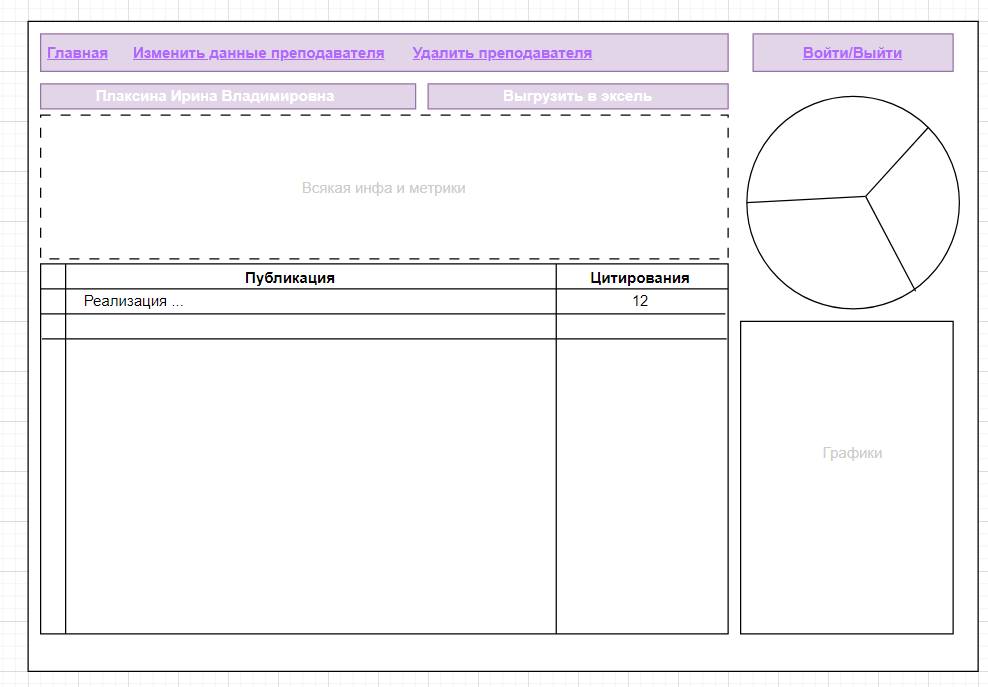
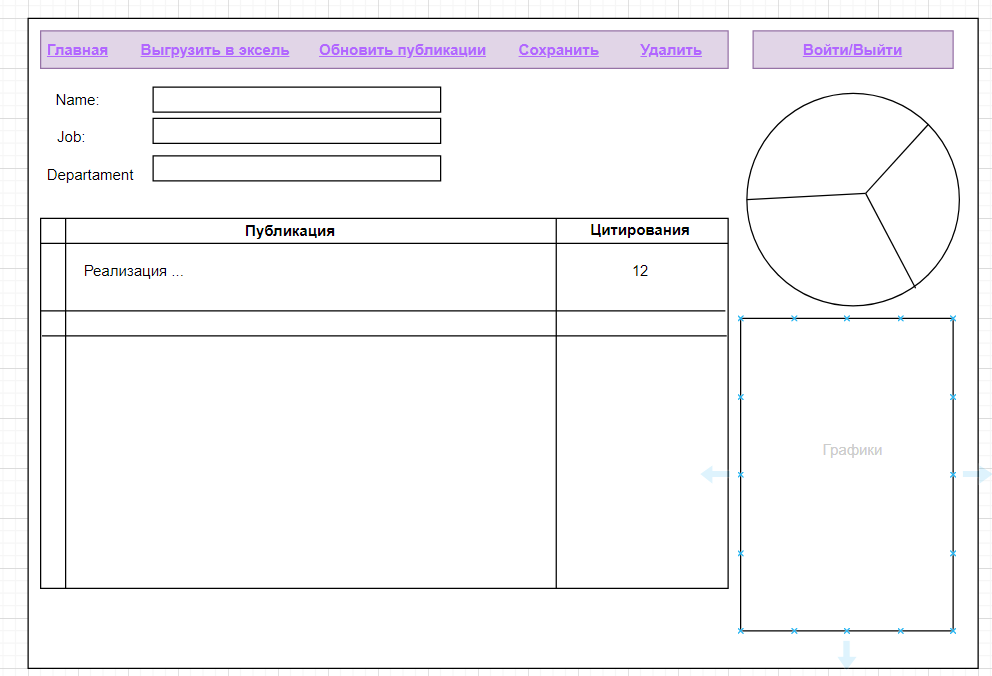
v0.1

diff --git a/PublicationReports/PublicationReports/templates/PublicationReports/root.html b/PublicationReports/PublicationReports/templates/PublicationReports/root.html
@@ -2,10 +2,12 @@
 
 <!DOCTYPE html>
 <html lang="en">
-<head>
-    <meta charset="UTF-8">
-    <title>PublicationReports</title>
-    <script src="{% static 'publrep/jquery-3.7.1.min.js' %}"></script>
+     <head>
+     <meta charset="UTF-8">
+     <meta name="viewport" content="width=device-width, initial-scale=1.0">
+     <title>PublicationReports</title>
+     <link rel="stylesheet" href="https://stackpath.bootstrapcdn.com/bootstrap/4.5.2/css/bootstrap.min.css">
+     <link rel="stylesheet" href="{% static 'css/styles.css' %}">
 </head>
 <body>
 {% block body_content %}

diff --git a/PublicationReports/PublicationReports/templates/PublicationReports/index.html b/PublicationReports/PublicationReports/templates/PublicationReports/index.html
@@ -38,7 +38,7 @@
   </tr>
   <tr>
     {% for author in authors %}
-    <td>{{ author.name }}</td>
+      <td><a href="{% url 'view_author' author.id %}">{{ author.name }}</a> </td>
     <td>{{ author.departament }}</td>
     <td>посчитать количество пбуликаций по автору</td>
     <tr>{% endfor %}<br>

diff --git a/PublicationReports/PublicationReports/templates/PublicationReports/author.html b/PublicationReports/PublicationReports/templates/PublicationReports/author.html
@@ -1,0 +1,9 @@
+{% extends 'PublicationReports/root.html' %}
+
+{% block body_content %}
+<form method="post" enctype="multipart/form-data">
+    {% csrf_token %}
+    {{ form.as_p }}
+    <input type="submit" value="Добавить">
+</form>
+{% endblock body_content %}

diff --git a/PublicationReports/PublicationReports/static/css/styles.css b/PublicationReports/PublicationReports/static/css/styles.css
@@ -1,0 +1,15 @@
+ body {
+     font-family: Arial, sans-serif;
+     margin: 0;
+     padding: 0;
+ }
+
+ header, footer {
+     background-color: #f8f9fa;
+     text-align: center;
+     padding: 1em;
+ }
+
+ main {
+     padding: 1em;
+ }

diff --git a/PublicationReports/PublicationReports/views.py b/PublicationReports/PublicationReports/views.py
@@ -1,8 +1,11 @@
+from django.views.decorators.http import require_http_methods
+
 from .models import Author as AuthorModel
 from .forms import AuthorForm
 from django.template.response import TemplateResponse
 from django.urls import reverse
-from django.http import HttpResponseRedirect
+from django.http import HttpResponseRedirect, HttpResponseNotFound
+
 
 def index(request):
     return TemplateResponse(request,
@@ -30,3 +33,29 @@ def create_teacher(request):
             return TemplateResponse(request,
                                     template_name,
                                     context={'form': author_form})
+
+def view_author(request, id):
+    template_name = "PublicationReports/author.html"
+    try:
+        publrep = AuthorModel.objects.get(pk=id)
+    except AuthorModel.DoesNotExist:
+        return HttpResponseNotFound('Не найдено')
+    if request.method == 'GET':
+        publrep_form = AuthorForm(instance=publrep)
+        return TemplateResponse(request,
+                                template_name,
+                                context={'form': publrep_form})
+    elif request.method == 'POST':
+        publrep_form = AuthorForm(request.POST, request.FILES, instance=publrep)
+        if publrep_form.is_valid():
+            publrep.name = request.POST['name']
+            publrep.description = publrep_form.cleaned_data['description']
+            publrep.cost = publrep_form.cleaned_data['cost']
+            publrep.curr = publrep_form.cleaned_data['curr']
+            publrep.rubric = publrep_form.cleaned_data['rubric']
+            publrep.save()
+            return HttpResponseRedirect(reverse('index'))
+        else:
+            return TemplateResponse(request,
+                                    template_name,
+                                    context={'form': publrep_form})

diff --git a/PublicationReports/PublicationReports/urls.py b/PublicationReports/PublicationReports/urls.py
@@ -16,12 +16,13 @@ Including another URLconf
 """
 from django.contrib import admin
 from django.urls import path, include
-from .views import index, create_teacher
+from .views import index, create_teacher, view_author
 from django.conf.urls.static import static
 
 urlpatterns = [
     path('admin/', admin.site.urls),
     path('accounts/', include('django.contrib.auth.urls')),
     path('create_teacher/', create_teacher, name="create_teacher"),
-    path('', index, name="index")
+    path('', index, name="index"),
+    path('author/<int:id>/', view_author, name="view_author")
 ]
